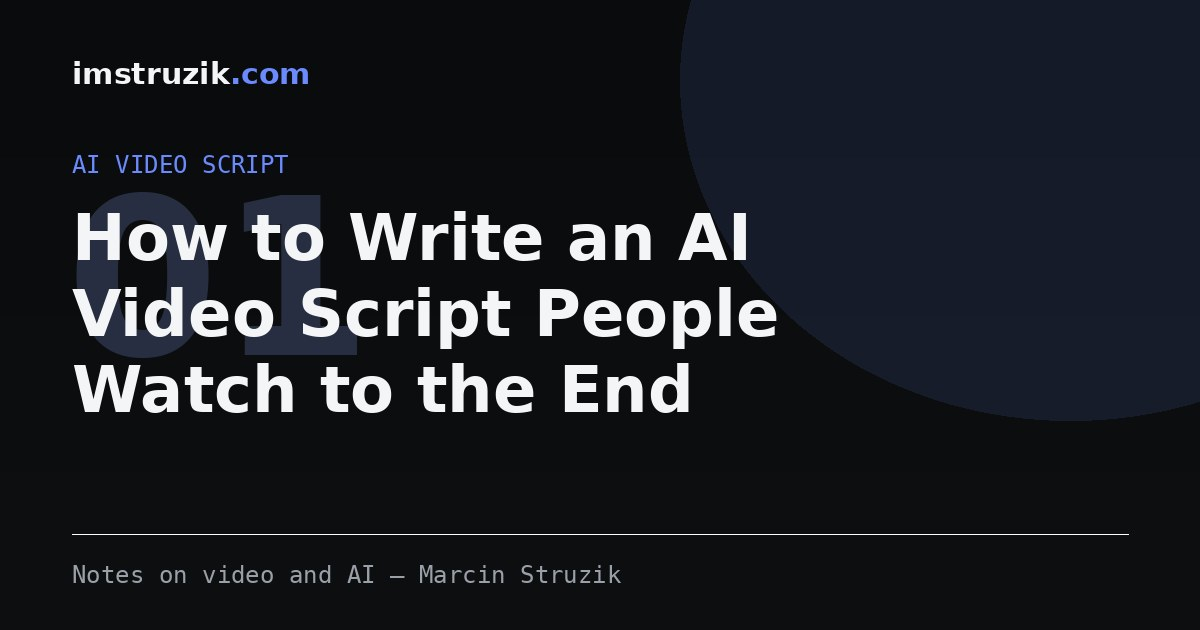
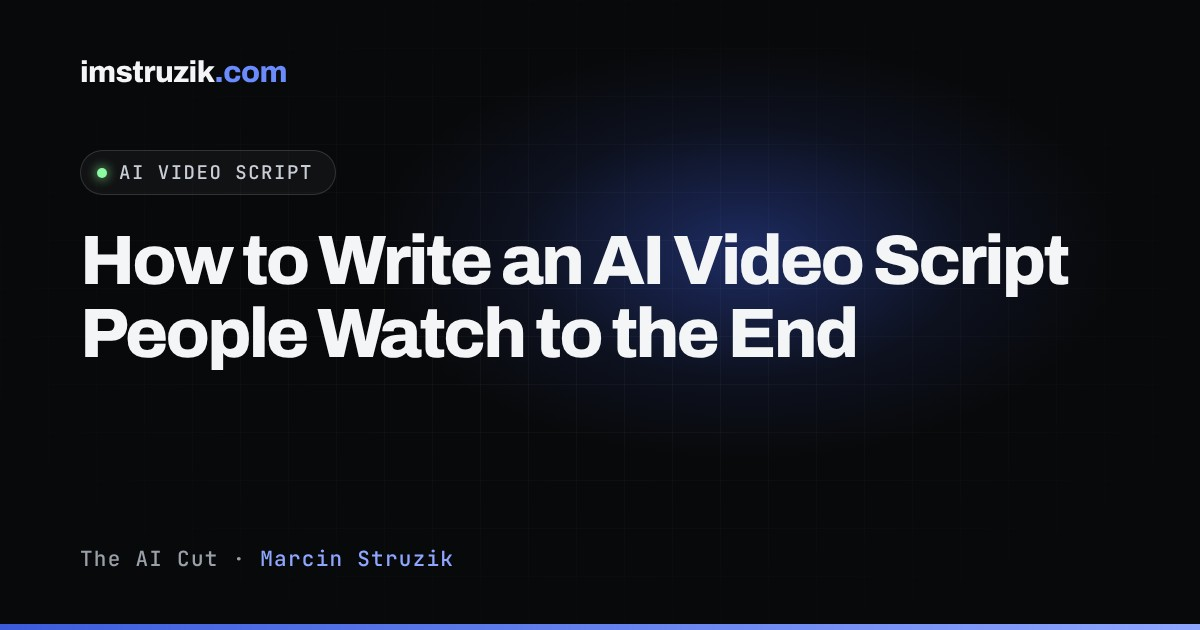
Redo the four note social images in the site style
Old cards used a fallback font with a big "03" overlapping the title. New ones
match the home card; ?v=2 makes LinkedIn and others re-fetch.

Claude-Session: https://claude.ai/code/session_01482EpDqDCHFWuDnKSFo8Dg

diff --git a/notes/free-ai-video-tools/index.html b/notes/free-ai-video-tools/index.html
@@ -17,14 +17,14 @@
 <meta property="og:site_name" content="imstruzik.com">
 <meta property="og:title" content="Free AI Tools for Video Creators: The Resources I Actually Use">
 <meta property="og:description" content="No affiliate links, no fifty-logo roundup: the free AI tools I actually use for scripts, voiceover, captions, stock footage and mockups, with free-tier limits.">
-<meta property="og:image" content="https://imstruzik.com/notes/free-ai-video-tools/og.jpg">
+<meta property="og:image" content="https://imstruzik.com/notes/free-ai-video-tools/og.jpg?v=2">
 <meta property="og:image:width" content="1200">
 <meta property="og:image:height" content="630">
 
 <meta name="twitter:card" content="summary_large_image">
 <meta name="twitter:title" content="Free AI Tools for Video Creators: The Resources I Actually Use">
 <meta name="twitter:description" content="No affiliate links, no fifty-logo roundup: the free AI tools I actually use for scripts, voiceover, captions, stock footage and mockups, with free-tier limits.">
-<meta name="twitter:image" content="https://imstruzik.com/notes/free-ai-video-tools/og.jpg">
+<meta name="twitter:image" content="https://imstruzik.com/notes/free-ai-video-tools/og.jpg?v=2">
 
 <link rel="icon" type="image/png" href="/favicon.png">
 <link rel="apple-touch-icon" href="/favicon.png">
@@ -36,7 +36,7 @@
 {
   "@context": "https://schema.org",
   "@type": "BlogPosting",
-  "image": "https://imstruzik.com/notes/free-ai-video-tools/og.jpg",
+  "image": "https://imstruzik.com/notes/free-ai-video-tools/og.jpg?v=2",
   "mainEntityOfPage": { "@type": "WebPage", "@id": "https://imstruzik.com/notes/free-ai-video-tools/" },
   "headline": "Free AI Tools for Video Creators: The Resources I Actually Use",
   "description": "No affiliate links, no fifty-logo roundup &mdash; the free AI tools and resources I actually use for scripting, voiceover, captions, stock footage and mockups, with free-tier limits noted.",

diff --git a/notes/ai-tools-for-video/index.html b/notes/ai-tools-for-video/index.html
@@ -17,14 +17,14 @@
 <meta property="og:site_name" content="imstruzik.com">
 <meta property="og:title" content="The AI Tools for Video I Stopped Using, and the 4 I Would Keep">
 <meta property="og:description" content="A SaaS video producer&#x27;s shortlist after testing AI tools on real projects, not demos: the one-line test, the 4 tools that stayed, and the ones that faded.">
-<meta property="og:image" content="https://imstruzik.com/notes/ai-tools-for-video/og.jpg">
+<meta property="og:image" content="https://imstruzik.com/notes/ai-tools-for-video/og.jpg?v=2">
 <meta property="og:image:width" content="1200">
 <meta property="og:image:height" content="630">
 
 <meta name="twitter:card" content="summary_large_image">
 <meta name="twitter:title" content="The AI Tools for Video I Stopped Using, and the 4 I Would Keep">
 <meta name="twitter:description" content="A SaaS video producer&#x27;s shortlist after testing AI tools on real projects, not demos: the one-line test, the 4 tools that stayed, and the ones that faded.">
-<meta name="twitter:image" content="https://imstruzik.com/notes/ai-tools-for-video/og.jpg">
+<meta name="twitter:image" content="https://imstruzik.com/notes/ai-tools-for-video/og.jpg?v=2">
 
 <link rel="icon" type="image/png" href="/favicon.png">
 <link rel="apple-touch-icon" href="/favicon.png">
@@ -36,7 +36,7 @@
 {
   "@context": "https://schema.org",
   "@type": "BlogPosting",
-  "image": "https://imstruzik.com/notes/ai-tools-for-video/og.jpg",
+  "image": "https://imstruzik.com/notes/ai-tools-for-video/og.jpg?v=2",
   "mainEntityOfPage": { "@type": "WebPage", "@id": "https://imstruzik.com/notes/ai-tools-for-video/" },
   "headline": "The AI Tools for Video I Stopped Using, and the 4 I Would Keep",
   "description": "A SaaS video producer's shortlist after testing AI tools on real projects, not demos: the one-line test, the 4 tools that stayed, and the ones that faded.",

diff --git a/notes/ai-video-script/index.html b/notes/ai-video-script/index.html
@@ -17,14 +17,14 @@
 <meta property="og:site_name" content="imstruzik.com">
 <meta property="og:title" content="How to Write an AI Video Script People Watch to the End">
 <meta property="og:description" content="Where AI speeds up video scripting, the three-question brief that stops it sounding generic, and the one decision that still has to come from a person.">
-<meta property="og:image" content="https://imstruzik.com/notes/ai-video-script/og.jpg">
+<meta property="og:image" content="https://imstruzik.com/notes/ai-video-script/og.jpg?v=2">
 <meta property="og:image:width" content="1200">
 <meta property="og:image:height" content="630">
 
 <meta name="twitter:card" content="summary_large_image">
 <meta name="twitter:title" content="How to Write an AI Video Script People Watch to the End">
 <meta name="twitter:description" content="Where AI speeds up video scripting, the three-question brief that stops it sounding generic, and the one decision that still has to come from a person.">
-<meta name="twitter:image" content="https://imstruzik.com/notes/ai-video-script/og.jpg">
+<meta name="twitter:image" content="https://imstruzik.com/notes/ai-video-script/og.jpg?v=2">
 
 <link rel="icon" type="image/png" href="/favicon.png">
 <link rel="apple-touch-icon" href="/favicon.png">
@@ -36,7 +36,7 @@
 {
   "@context": "https://schema.org",
   "@type": "BlogPosting",
-  "image": "https://imstruzik.com/notes/ai-video-script/og.jpg",
+  "image": "https://imstruzik.com/notes/ai-video-script/og.jpg?v=2",
   "mainEntityOfPage": { "@type": "WebPage", "@id": "https://imstruzik.com/notes/ai-video-script/" },
   "headline": "How to Write an AI Video Script People Watch to the End",
   "description": "Where AI speeds up video scripting, the three-question brief that stops it sounding generic, and the one decision that still has to come from a person.",

diff --git a/notes/ai-video-editing/index.html b/notes/ai-video-editing/index.html
@@ -17,14 +17,14 @@
 <meta property="og:site_name" content="imstruzik.com">
 <meta property="og:title" content="AI Video Editing: 7 Tasks to Hand Over Today, and 3 You Never Should">
 <meta property="og:description" content="Seven editing tasks safe to hand over to AI today, three that still need a human eye, and the one-question test for telling them apart.">
-<meta property="og:image" content="https://imstruzik.com/notes/ai-video-editing/og.jpg">
+<meta property="og:image" content="https://imstruzik.com/notes/ai-video-editing/og.jpg?v=2">
 <meta property="og:image:width" content="1200">
 <meta property="og:image:height" content="630">
 
 <meta name="twitter:card" content="summary_large_image">
 <meta name="twitter:title" content="AI Video Editing: 7 Tasks to Hand Over Today, and 3 You Never Should">
 <meta name="twitter:description" content="Seven editing tasks safe to hand over to AI today, three that still need a human eye, and the one-question test for telling them apart.">
-<meta name="twitter:image" content="https://imstruzik.com/notes/ai-video-editing/og.jpg">
+<meta name="twitter:image" content="https://imstruzik.com/notes/ai-video-editing/og.jpg?v=2">
 
 <link rel="icon" type="image/png" href="/favicon.png">
 <link rel="apple-touch-icon" href="/favicon.png">
@@ -36,7 +36,7 @@
 {
   "@context": "https://schema.org",
   "@type": "BlogPosting",
-  "image": "https://imstruzik.com/notes/ai-video-editing/og.jpg",
+  "image": "https://imstruzik.com/notes/ai-video-editing/og.jpg?v=2",
   "mainEntityOfPage": { "@type": "WebPage", "@id": "https://imstruzik.com/notes/ai-video-editing/" },
   "headline": "AI Video Editing: 7 Tasks to Hand Over Today, and 3 You Never Should",
   "description": "Seven editing tasks safe to hand over to AI today, three that still need a human eye, and the one-question test for telling them apart.",
